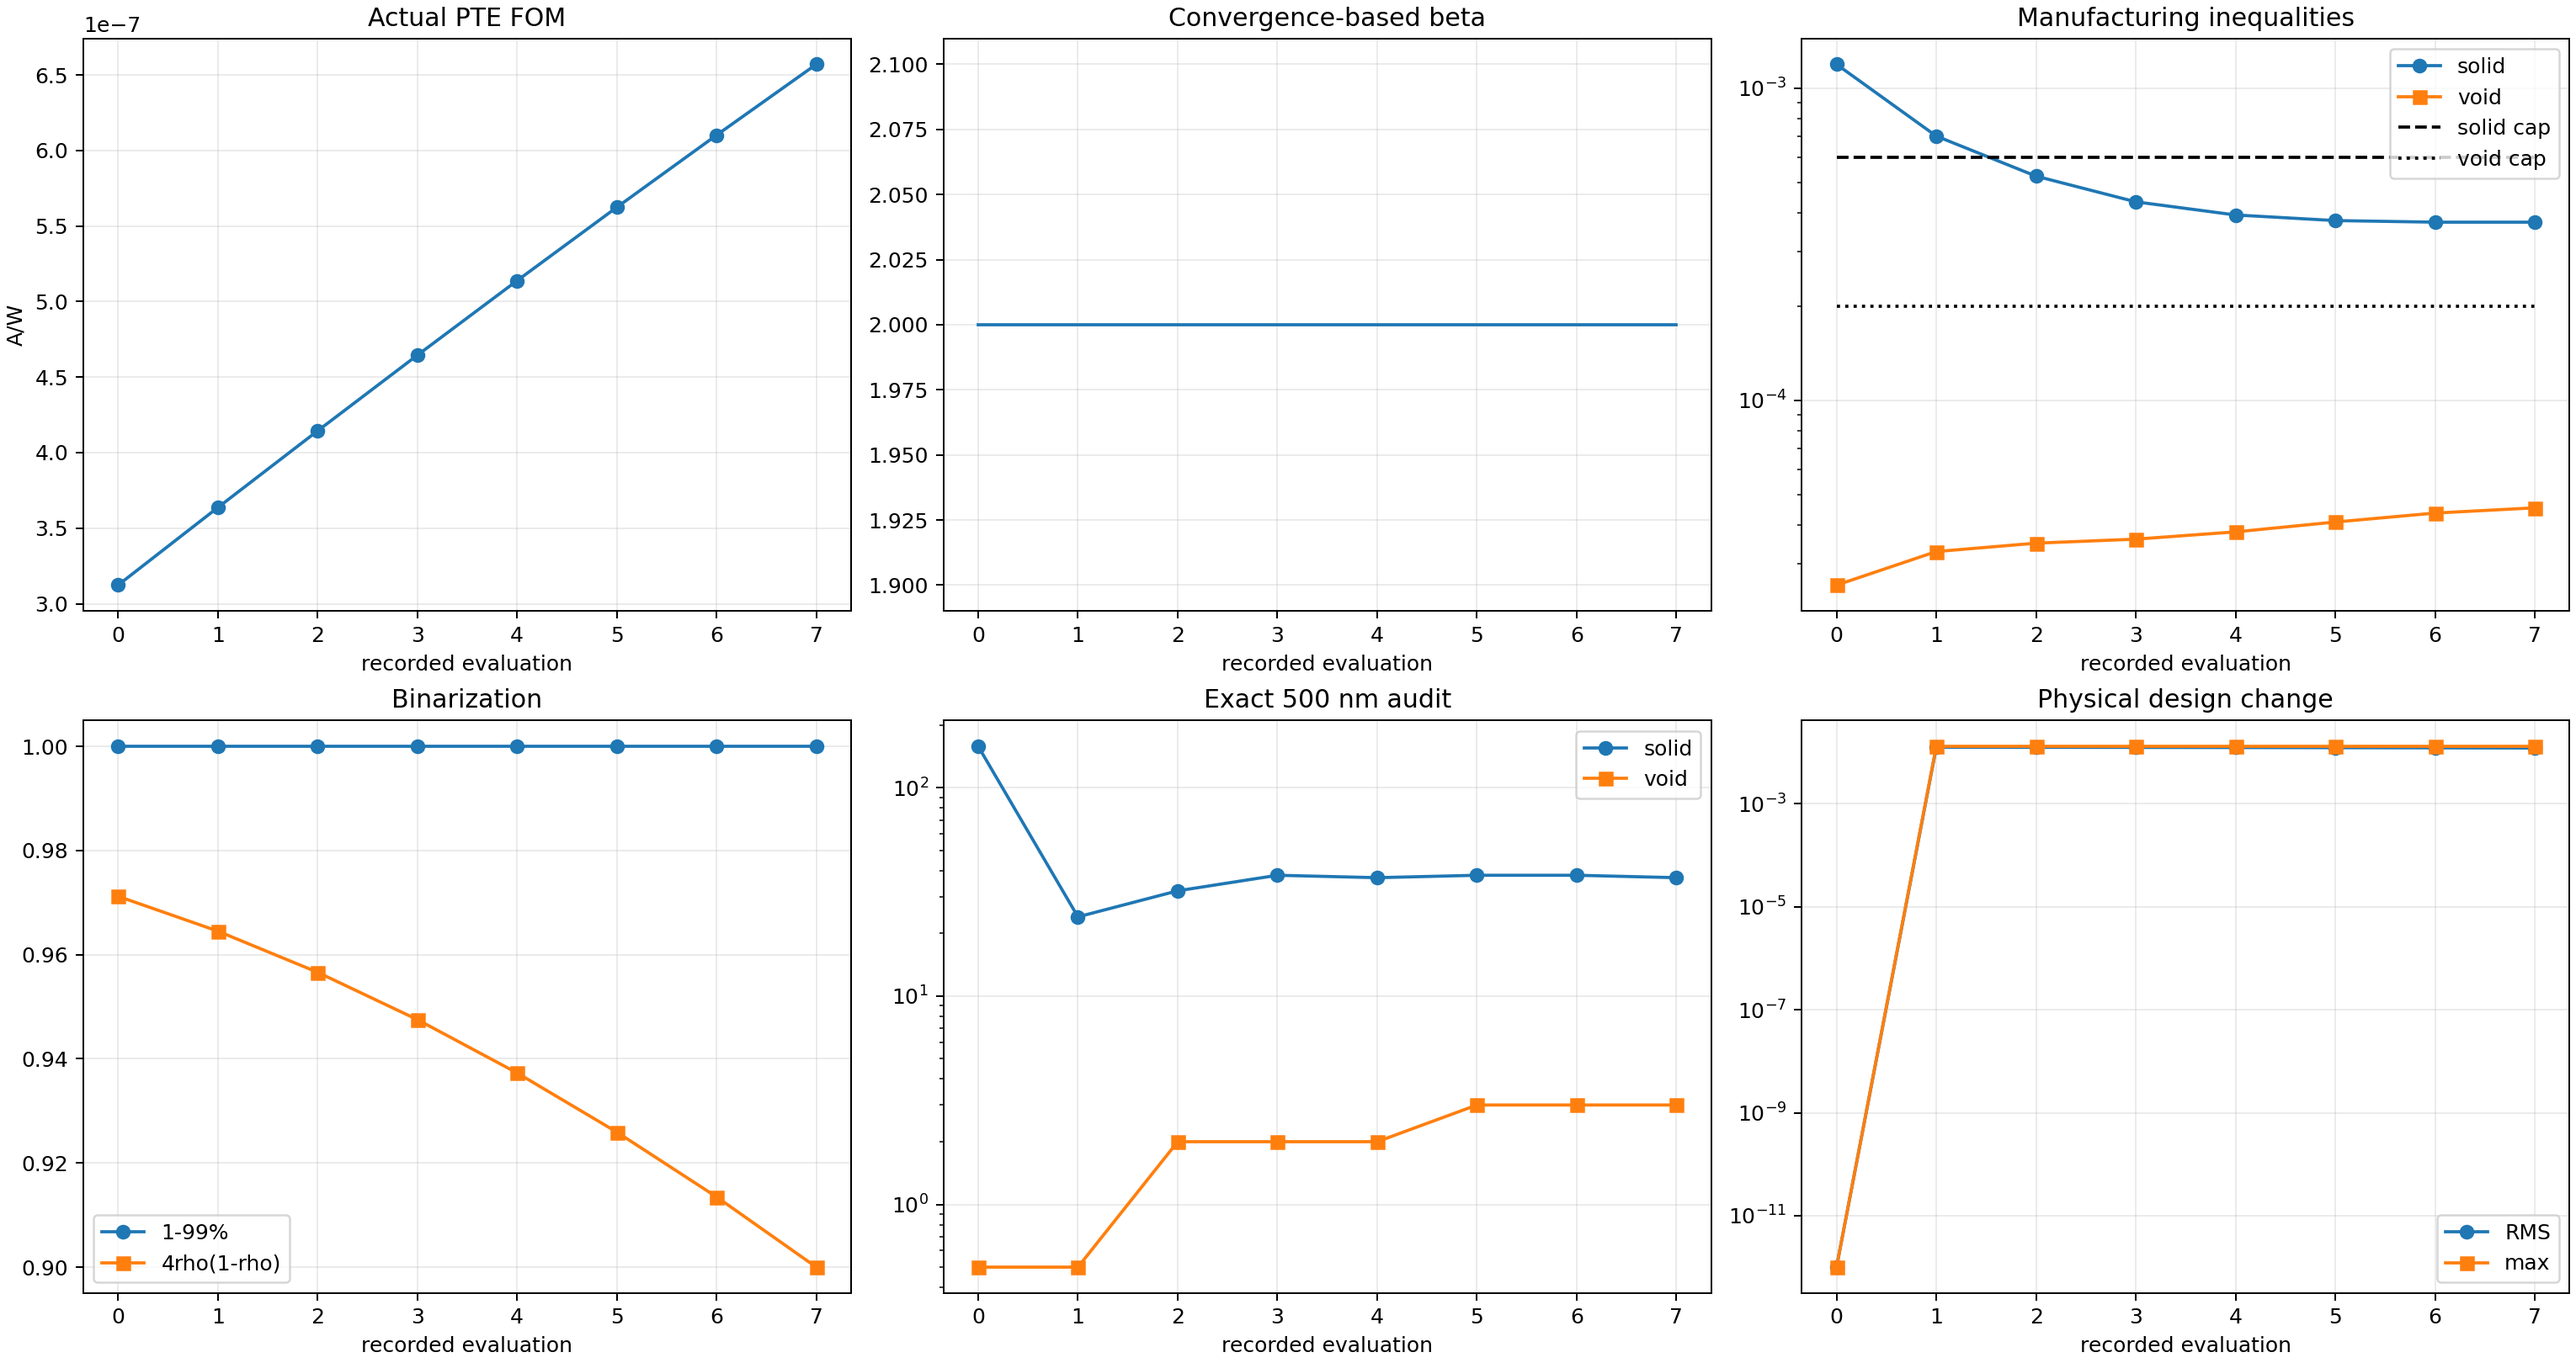
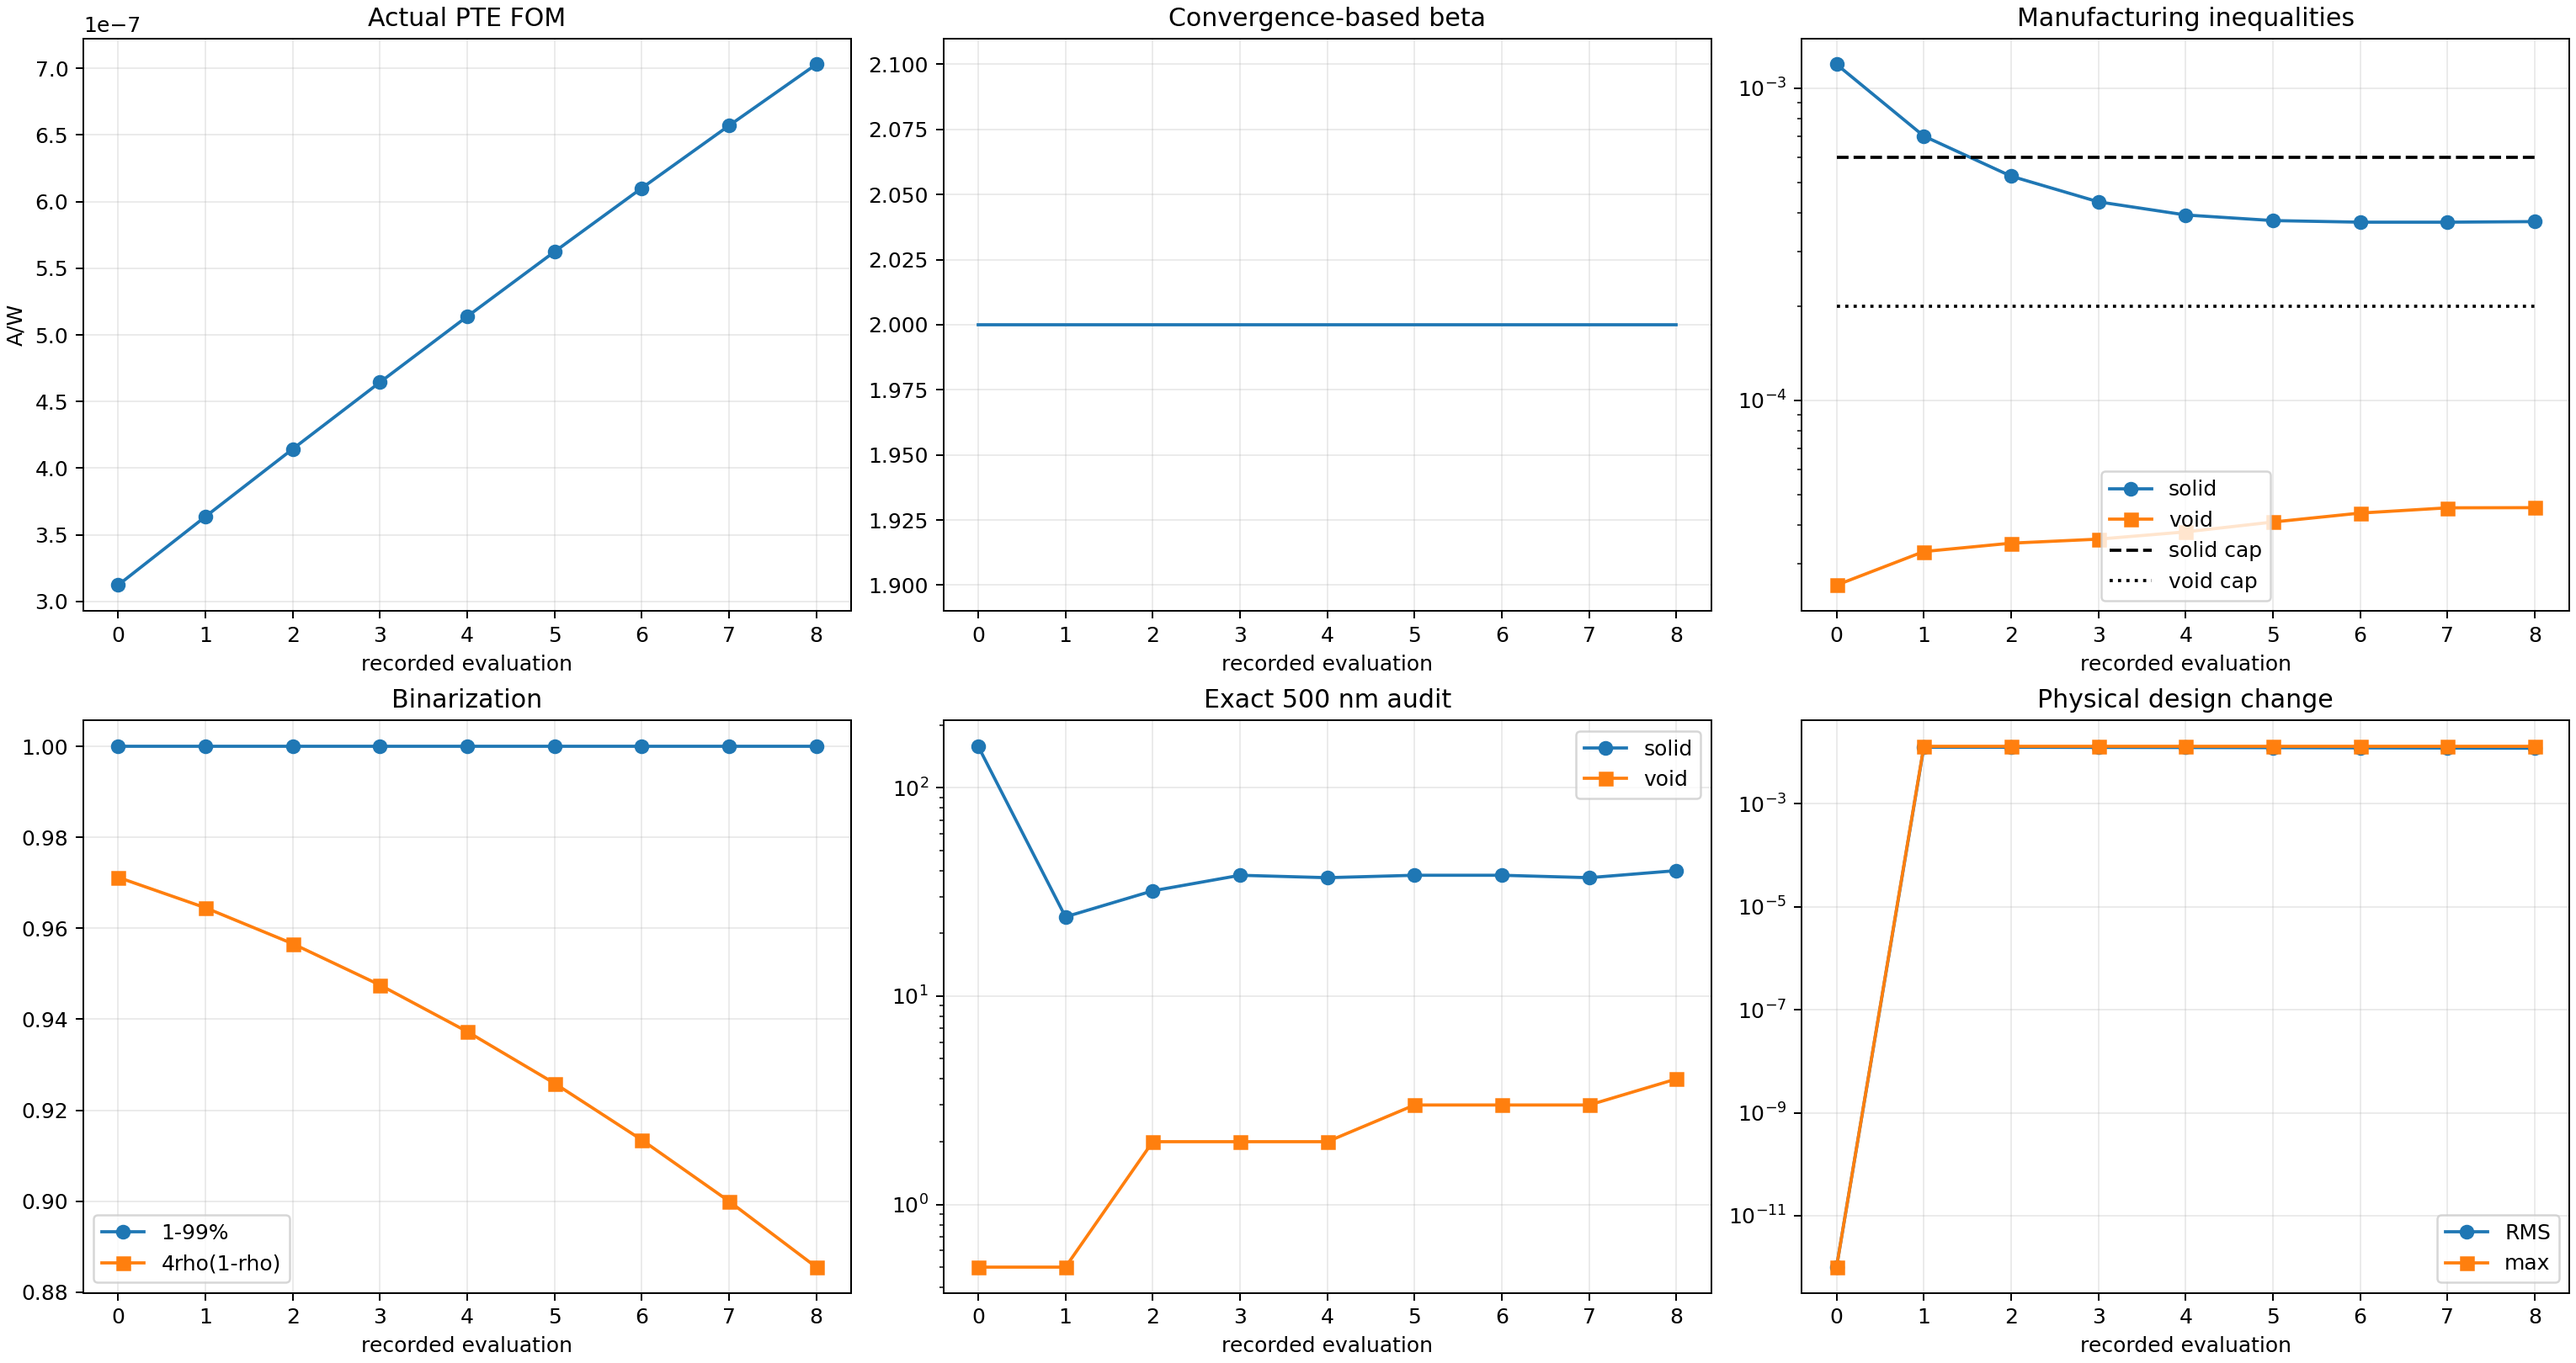
Record Run 005 run006_Ea_b002_s008_g008_accepted_mma

diff --git a/photothermal_pte/optimization_runs/run_006_corrected_Ea_pte_magnitude_max/results/OPTIMIZATION_REPORT.md b/photothermal_pte/optimization_runs/run_006_corrected_Ea_pte_magnitude_max/results/OPTIMIZATION_REPORT.md
@@ -2,12 +2,12 @@
 
 Status: `RUNNING_CORRECTED_EA_PTE_MAGNITUDE_OPTIMIZATION`
 
-Current stage: beta=2, accepted stage iteration=7, global iteration=7.
+Current stage: beta=2, accepted stage iteration=8, global iteration=8.
 
 Constraint contract: `soft_disk_opening_500nm_from_iteration_zero_v5`.
 
-Actual FOM: `6.570328172879e-07 A/W`. Fixed-cap solid/void constraints: `3.723255e-04` / `4.532226e-05` with caps `6.000000e-04` / `2.000000e-04`.
+Actual FOM: `7.030211730990e-07 A/W`. Fixed-cap solid/void constraints: `3.738923e-04` / `4.537612e-05` with caps `6.000000e-04` / `2.000000e-04`.
 
-Exact 500 nm bad cells: solid `37`, void `3`. Stage convergence: `False` (need at least 8 accepted updates).
+Exact 500 nm bad cells: solid `40`, void `4`. Stage convergence: `False` (recent FOM/density changes have not plateaued).
 
 Beta advances only after the stage FOM/density plateau. The run is not complete until the projected-binary and exact 500 nm gates pass and a fresh thresholded-binary GPU/CUDA evaluation succeeds.
